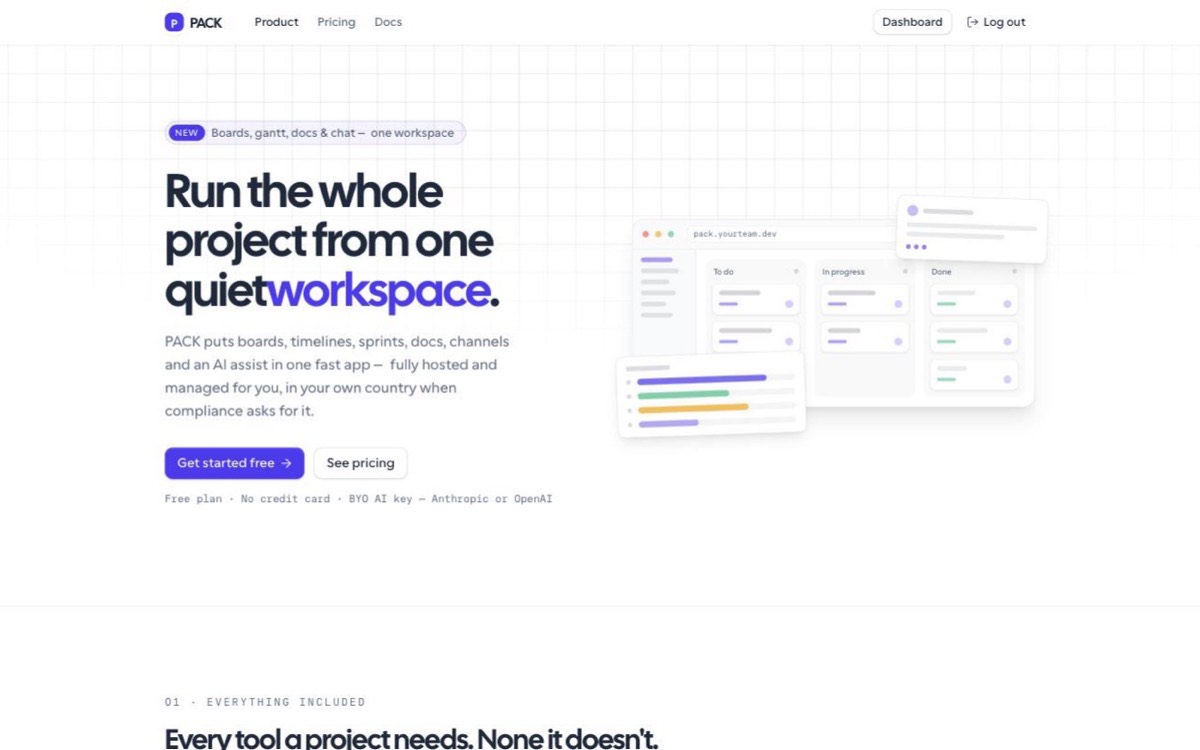
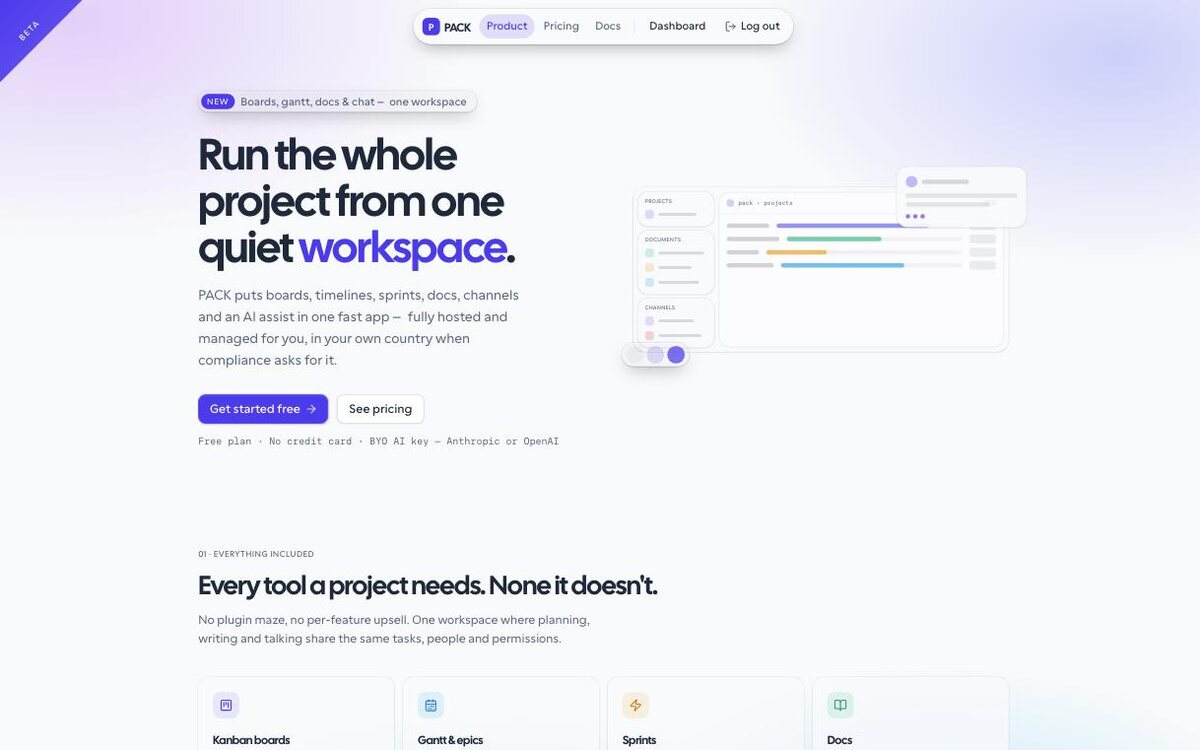
[HOWL-00077] ✨ feat(leotermine-www): add Guard, RustyDeck and Nanoleaf Pegboard #time 45m
Three new projects in the registry, with covers. Portrait desktop windows
(RustyDeck, Pegboard) are trimmed to their own edges on an accent panel
instead of cropped to 16:10.

Adds "Go" to the Language union and turns the filter on: at eight projects
the chips finally narrow something.

Claude-Session: https://claude.ai/code/session_01PWJF8Bks6SsziVmYg6suqH

diff --git a/examples/leotermine-www/shared/projects/guard.ts b/examples/leotermine-www/shared/projects/guard.ts
@@ -1,0 +1,18 @@
+import type { Project } from "./types.ts";
+
+/** Guard — the cloud control plane the Hushkey products are deployed and watched from. */
+export const guard: Project = {
+  slug: "guard",
+  name: "Guard",
+  tagline: "Cloud control for the Hushkey stack",
+  summary:
+    "The control plane the Hushkey products run on: deployments, secrets, container registries, object storage, telemetry and analytics behind one login. It ingests OTLP/HTTP logs, traces and metrics into a single SQLite file and keeps every application's environment variables encrypted per workspace and environment. Written in Go on howl-go, rendered both on the server and in WebAssembly, and shipped as static binaries with no runtime dependencies — the vault is deliberately its own, so a bad dashboard release cannot stop a container from booting.",
+  year: "2026",
+  status: "live",
+  hue: 248,
+  languages: ["Go", "WebAssembly"],
+  cover: "/projects/guard.jpg",
+  links: [
+    { label: "Visit", href: "https://guard.hushkey.dev", icon: "globe", primary: true },
+  ],
+};

diff --git a/examples/leotermine-www/shared/projects/nanoleaf-pegboard.ts b/examples/leotermine-www/shared/projects/nanoleaf-pegboard.ts
@@ -1,0 +1,23 @@
+import type { Project } from "./types.ts";
+
+/** Nanoleaf Pegboard — a Linux driver for a dock that shipped without one. */
+export const nanoleafPegboard: Project = {
+  slug: "nanoleaf-pegboard",
+  name: "Nanoleaf Pegboard",
+  tagline: "Linux driver for a dock that has none",
+  summary:
+    "A userspace driver, control daemon, CLI and Omarchy bar widget for the Nanoleaf Pegboard Desk Dock, which ships with Windows and macOS software only. Rust over libusb with no kernel module: colour, brightness and a travelling rainbow wave are one command each, and reading the dock's state never starts the daemon.",
+  year: "2026",
+  status: "open source",
+  hue: 324,
+  languages: ["Rust"],
+  cover: "/projects/nanoleaf-pegboard.jpg",
+  links: [
+    {
+      label: "GitHub",
+      href: "https://github.com/mirairoad/nanoleaf-pegboard-linux",
+      icon: "github",
+      primary: true,
+    },
+  ],
+};

diff --git a/examples/leotermine-www/shared/projects/rustydeck.ts b/examples/leotermine-www/shared/projects/rustydeck.ts
@@ -1,0 +1,23 @@
+import type { Project } from "./types.ts";
+
+/** RustyDeck — native Elgato Stream Deck control for Linux, Rust + GPUI. */
+export const rustydeck: Project = {
+  slug: "rustydeck",
+  name: "RustyDeck",
+  tagline: "Native Stream Deck app for Linux",
+  summary:
+    "Elgato Stream Deck support for Linux, written in Rust on GPUI — no webview, no plugin runtime, one 26 MiB binary. Keys, touch-strip rectangles and dials are each modelled and configured separately, pages let one deck hold several layouts, and actions run through your login shell so aliases and shell functions resolve the way they do in a terminal.",
+  year: "2026",
+  status: "open source",
+  hue: 12,
+  languages: ["Rust"],
+  cover: "/projects/rustydeck.jpg",
+  links: [
+    {
+      label: "GitHub",
+      href: "https://github.com/mirairoad/rustydeck",
+      icon: "github",
+      primary: true,
+    },
+  ],
+};

diff --git a/examples/leotermine-www/shared/projects/index.ts b/examples/leotermine-www/shared/projects/index.ts
@@ -8,6 +8,9 @@ import { howl } from "./howl.ts";
 import { hound } from "./hound.ts";
 import { pack } from "./pack.ts";
 import { hushkey } from "./hushkey.ts";
+import { guard } from "./guard.ts";
+import { rustydeck } from "./rustydeck.ts";
+import { nanoleafPegboard } from "./nanoleaf-pegboard.ts";
 // import { spellit } from "./spellit.ts"; // hidden until it has an icon and a build
 
 export type {
@@ -19,7 +22,17 @@ export type {
   ProjectSupport,
 } from "./types.ts";
 
-const REGISTERED: Project[] = [nobiru, howl, hound, pack, hushkey /*, spellit */];
+const REGISTERED: Project[] = [
+  nobiru,
+  howl,
+  hound,
+  pack,
+  hushkey,
+  guard,
+  rustydeck,
+  nanoleafPegboard,
+  /* spellit */
+];
 
 /** The first four-digit year in a `year` string, used only for ordering. */
 function startYear(project: Project): number {

diff --git a/examples/leotermine-www/client/components/project-grid.tsx b/examples/leotermine-www/client/components/project-grid.tsx
@@ -13,11 +13,11 @@ import {
 /**
  * Whether the language filter and its result count are shown.
  *
- * Both are built and working — hidden for now because five projects fit on one
- * screen, and a filter that never narrows anything is furniture. Flip to
- * `true` when the grid is long enough to earn it; nothing else needs changing.
+ * Off while five projects fit on one screen — a filter that never narrows
+ * anything is furniture. On from eight, where the chips do real work: Rust cuts
+ * the grid to three, Go to one.
  */
-const SHOW_FILTER = false;
+const SHOW_FILTER = true;
 
 /**
  * The projects grid and its filter.

diff --git a/examples/leotermine-www/shared/projects/types.ts b/examples/leotermine-www/shared/projects/types.ts
@@ -6,12 +6,13 @@
 
 /**
  * The languages the filter knows about. A closed union on purpose — adding a
- * sixth chip should be a deliberate edit here, not a side effect of typing a
- * new string into a project file.
+ * chip should be a deliberate edit here, not a side effect of typing a new
+ * string into a project file.
  */
 export type Language =
   | "TypeScript"
   | "Rust"
+  | "Go"
   | "Swift"
   | "React"
   | "React Native"

diff --git a/examples/leotermine-www/README.md b/examples/leotermine-www/README.md
@@ -66,7 +66,7 @@ export const newthing: Project = {
 
 ```ts
 // shared/projects/index.ts
-export const PROJECTS: Project[] = [nobiru, howl, hound, pack, hushkey, spellit, newthing];
+const REGISTERED: Project[] = [nobiru, howl, hound, pack, hushkey, guard, rustydeck, newthing];
 ```
 
 Every project gets `/newthing` — a standard overview page with the cover, what it is written in, and
@@ -94,15 +94,21 @@ nothing spans the viewport, including the nav. Depth comes from a single recipe 
 so cards still read as floating rather than dissolving into the background.
 
 **The filter is languages only.** `Language` in `shared/projects/types.ts` is a closed union —
-TypeScript, Rust, Swift, React, React Native, Vue — so a stray `"Redis"` is a compile error rather
-than a sixth chip nobody wanted. Frameworks, datastores and platforms live in each project's
-`summary`, where they read as prose instead of piling up as a dozen near-useless pills.
+TypeScript, Rust, Go, Swift, React, React Native, Vue, WebAssembly — so a stray `"Redis"` is a
+compile error rather than one more chip nobody wanted. It is also the only axis: "native", "systems"
+and "CLI" are categories, not languages, and adding them as chips would make the bar answer a
+question the grid never asks. Frameworks, datastores and platforms live in each project's `summary`,
+where they read as prose instead of piling up as a dozen near-useless pills.
 
 **Project covers are real, in three tiers.** `cover` is a screenshot of the live site
 (`static/projects/*.jpg`, 1200×750, ~50–100 KB — recapture by screenshotting and cropping to 16:10).
 `icon` is the app's own mark, floated on the project's accent, for products with no site to shoot —
 Nobiru uses its App Store icon. Everything else falls back to a monogram on the same accent panel.
-No mock screenshots: a fake one of something nobody can go and look at is worse than none.
+No mock screenshots: a fake one of something nobody can go and look at is worse than none. A desktop
+app is not a website, so a portrait window — RustyDeck, the Pegboard bar widget — is trimmed to its
+own edges and floated on a light panel in the project's accent rather than cropped to 16:10, because
+cropping one throws away the half worth showing. Still waiting on a shot? Leave the `cover:` line
+commented out; a monogram beats a 404.
 
 **Cards are picture-first.** Cover, name, tagline, languages — the prose lives on the project page,
 not in the grid. Hovering a card slides in one overlay layer, scrim and both buttons together,
